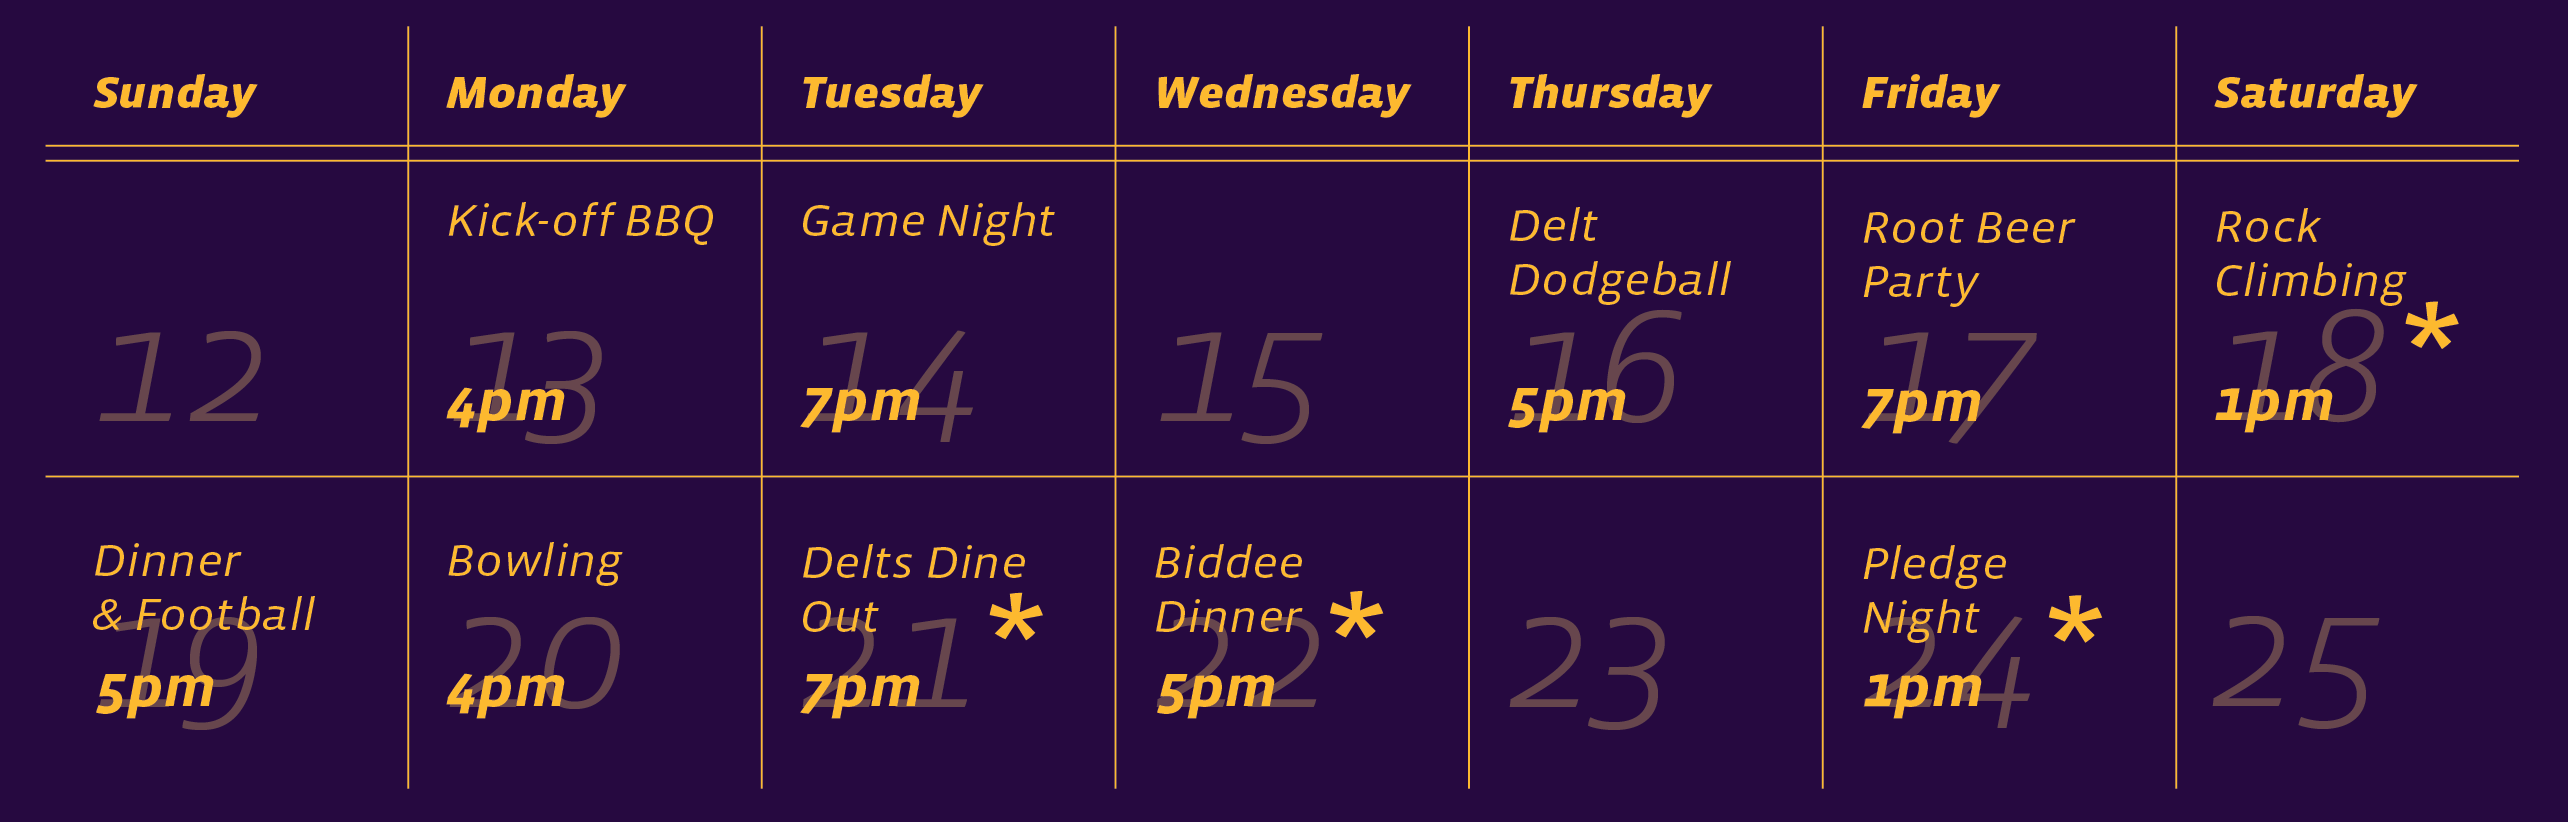
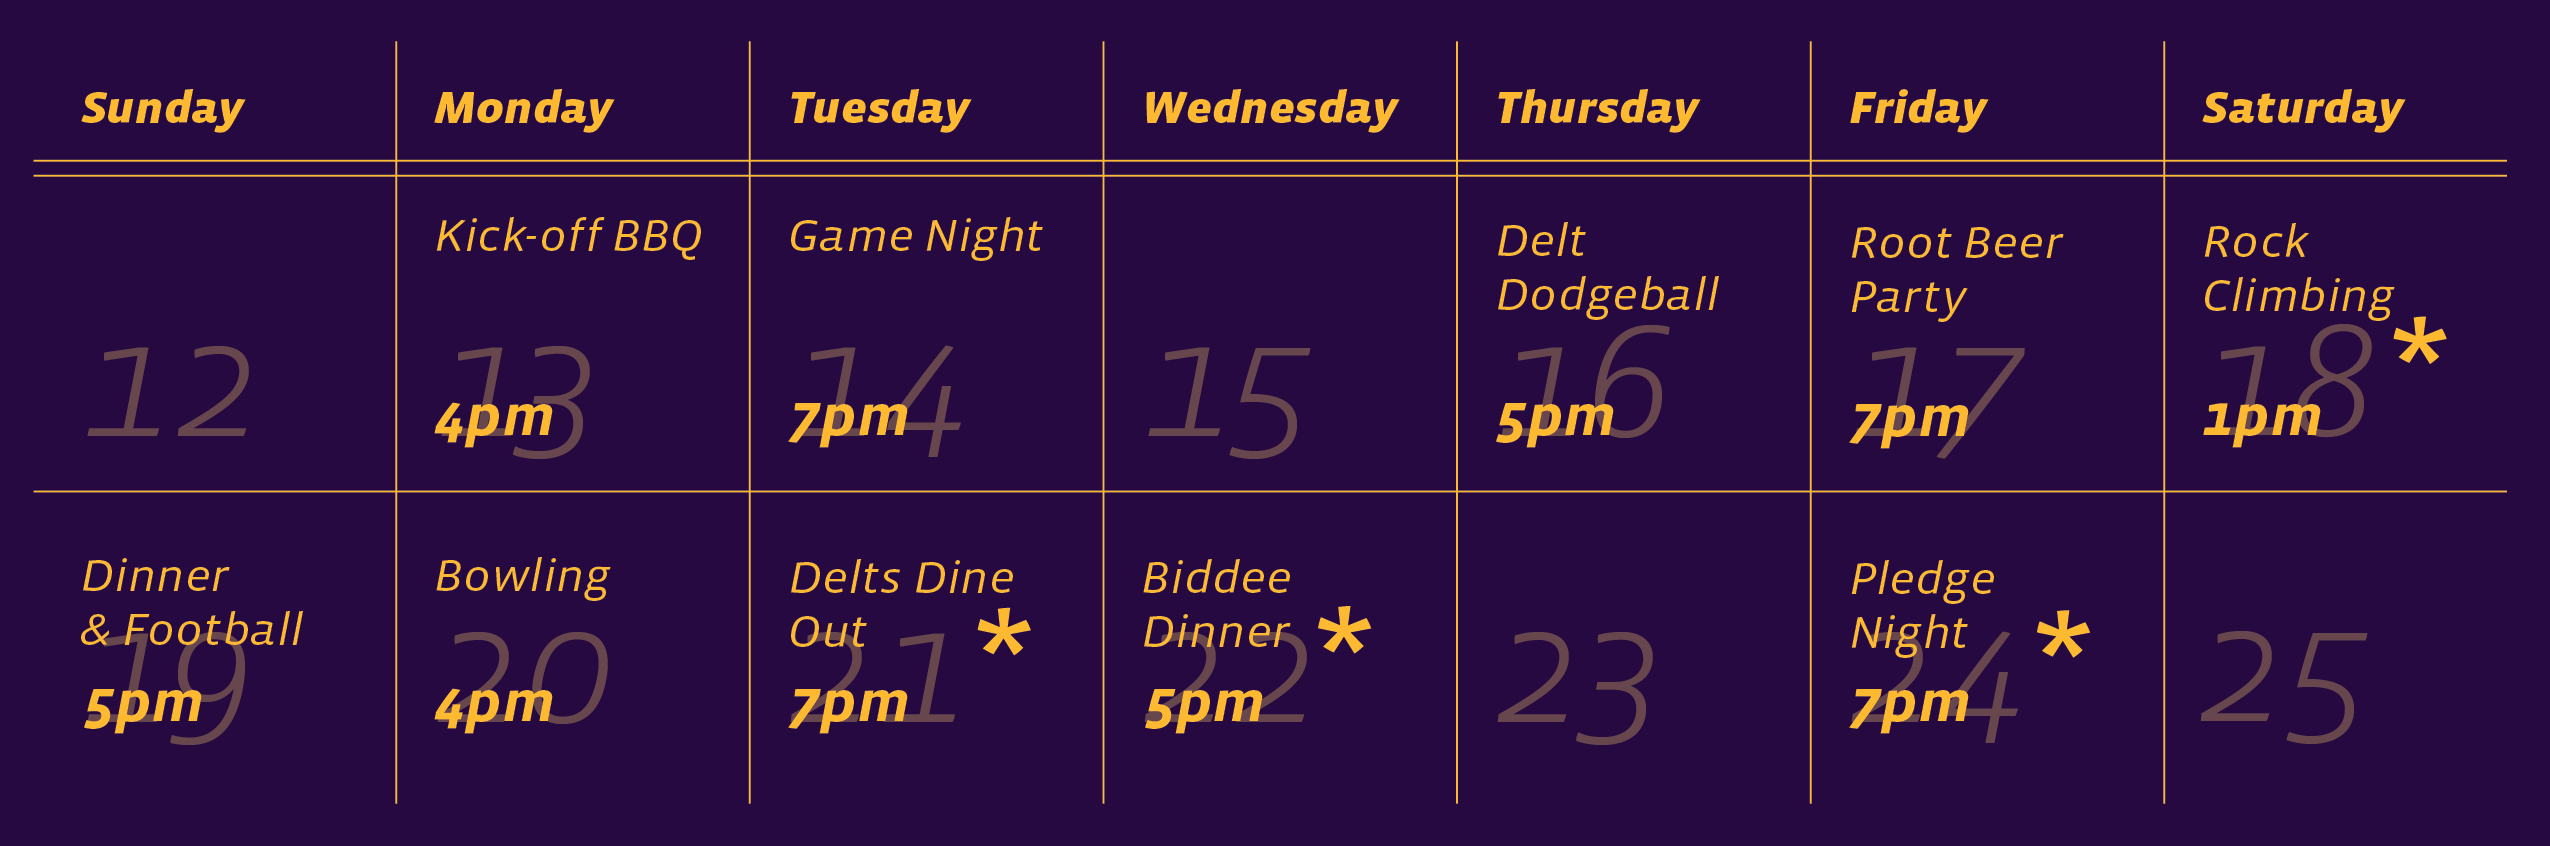
fix event typo

diff --git a/dist/index.html b/dist/index.html
@@ -26,7 +26,7 @@
           <h2 class="double-rule"><span>Calendar of Events</span></h2>
           <p class="invite-only-notice">Events marked with an asterisk* are invite-only.</p>
         </div>
-        <img class="calendar-image" alt="rush calendar" src="images/a64d2122.rush-s14-calendar.png">
+        <img class="calendar-image" alt="rush calendar" src="images/56fcec1d.rush-s14-calendar.png">
         <div class="information">
           <div class="col-xs-5 col-xs-offset-1">
             <h3>half price!</h3>
@@ -52,7 +52,7 @@
           <li><span class="date">20</span><span class="time">9pm</span><span class="event-name">Bowling</span></li>
           <li class="invite-only-event"><span class="date">21</span><span class="time">7pm</span><span class="event-name">Delts Dine Out</span></li>
           <li class="invite-only-event"><span class="date">22</span><span class="time">7pm</span><span class="event-name">Biddee Dinner</span></li>
-          <li class="invite-only-event"><span class="date">24</span><span class="time">8pm</span><span class="event-name">Pledge Night</span></li>
+          <li class="invite-only-event"><span class="date">24</span><span class="time">7pm</span><span class="event-name">Pledge Night</span></li>
         </ul>
 
       </div>

diff --git a/app/index.html b/app/index.html
@@ -54,7 +54,7 @@
           <li><span class="date">20</span><span class="time">9pm</span><span class="event-name">Bowling</span></li>
           <li class="invite-only-event"><span class="date">21</span><span class="time">7pm</span><span class="event-name">Delts Dine Out</span></li>
           <li class="invite-only-event"><span class="date">22</span><span class="time">7pm</span><span class="event-name">Biddee Dinner</span></li>
-          <li class="invite-only-event"><span class="date">24</span><span class="time">8pm</span><span class="event-name">Pledge Night</span></li>
+          <li class="invite-only-event"><span class="date">24</span><span class="time">7pm</span><span class="event-name">Pledge Night</span></li>
         </ul>
 
       </div>
